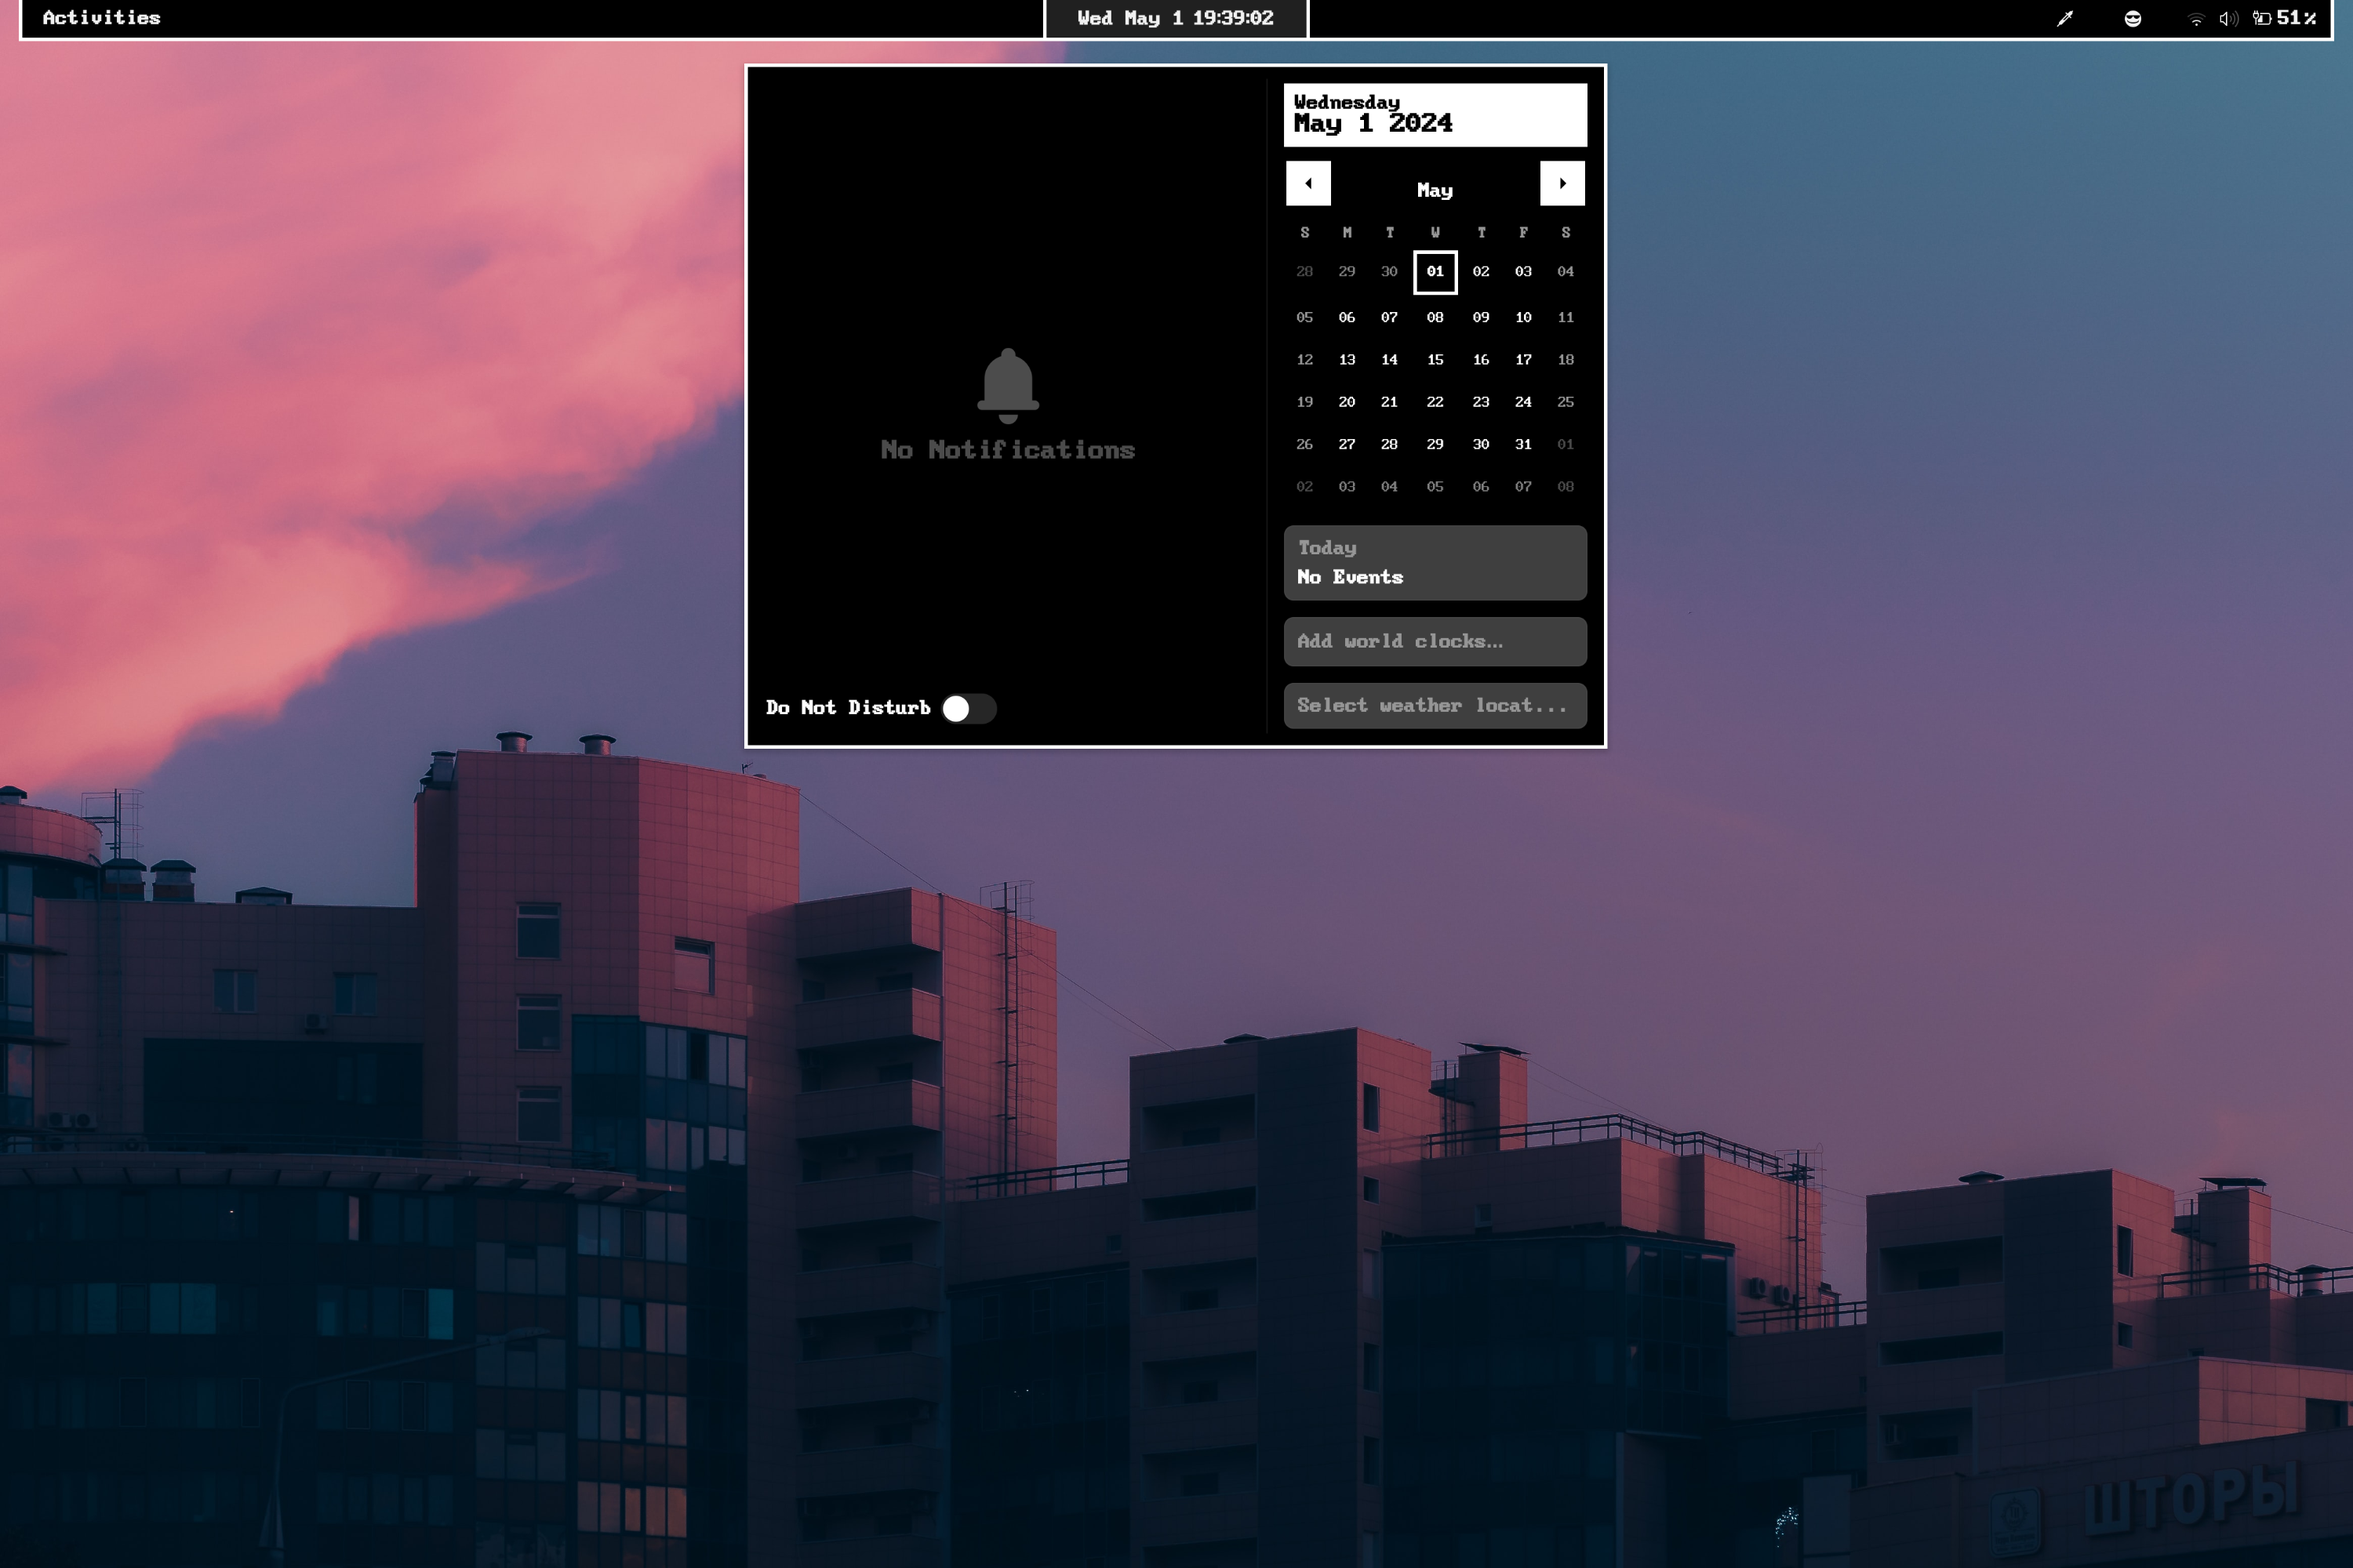
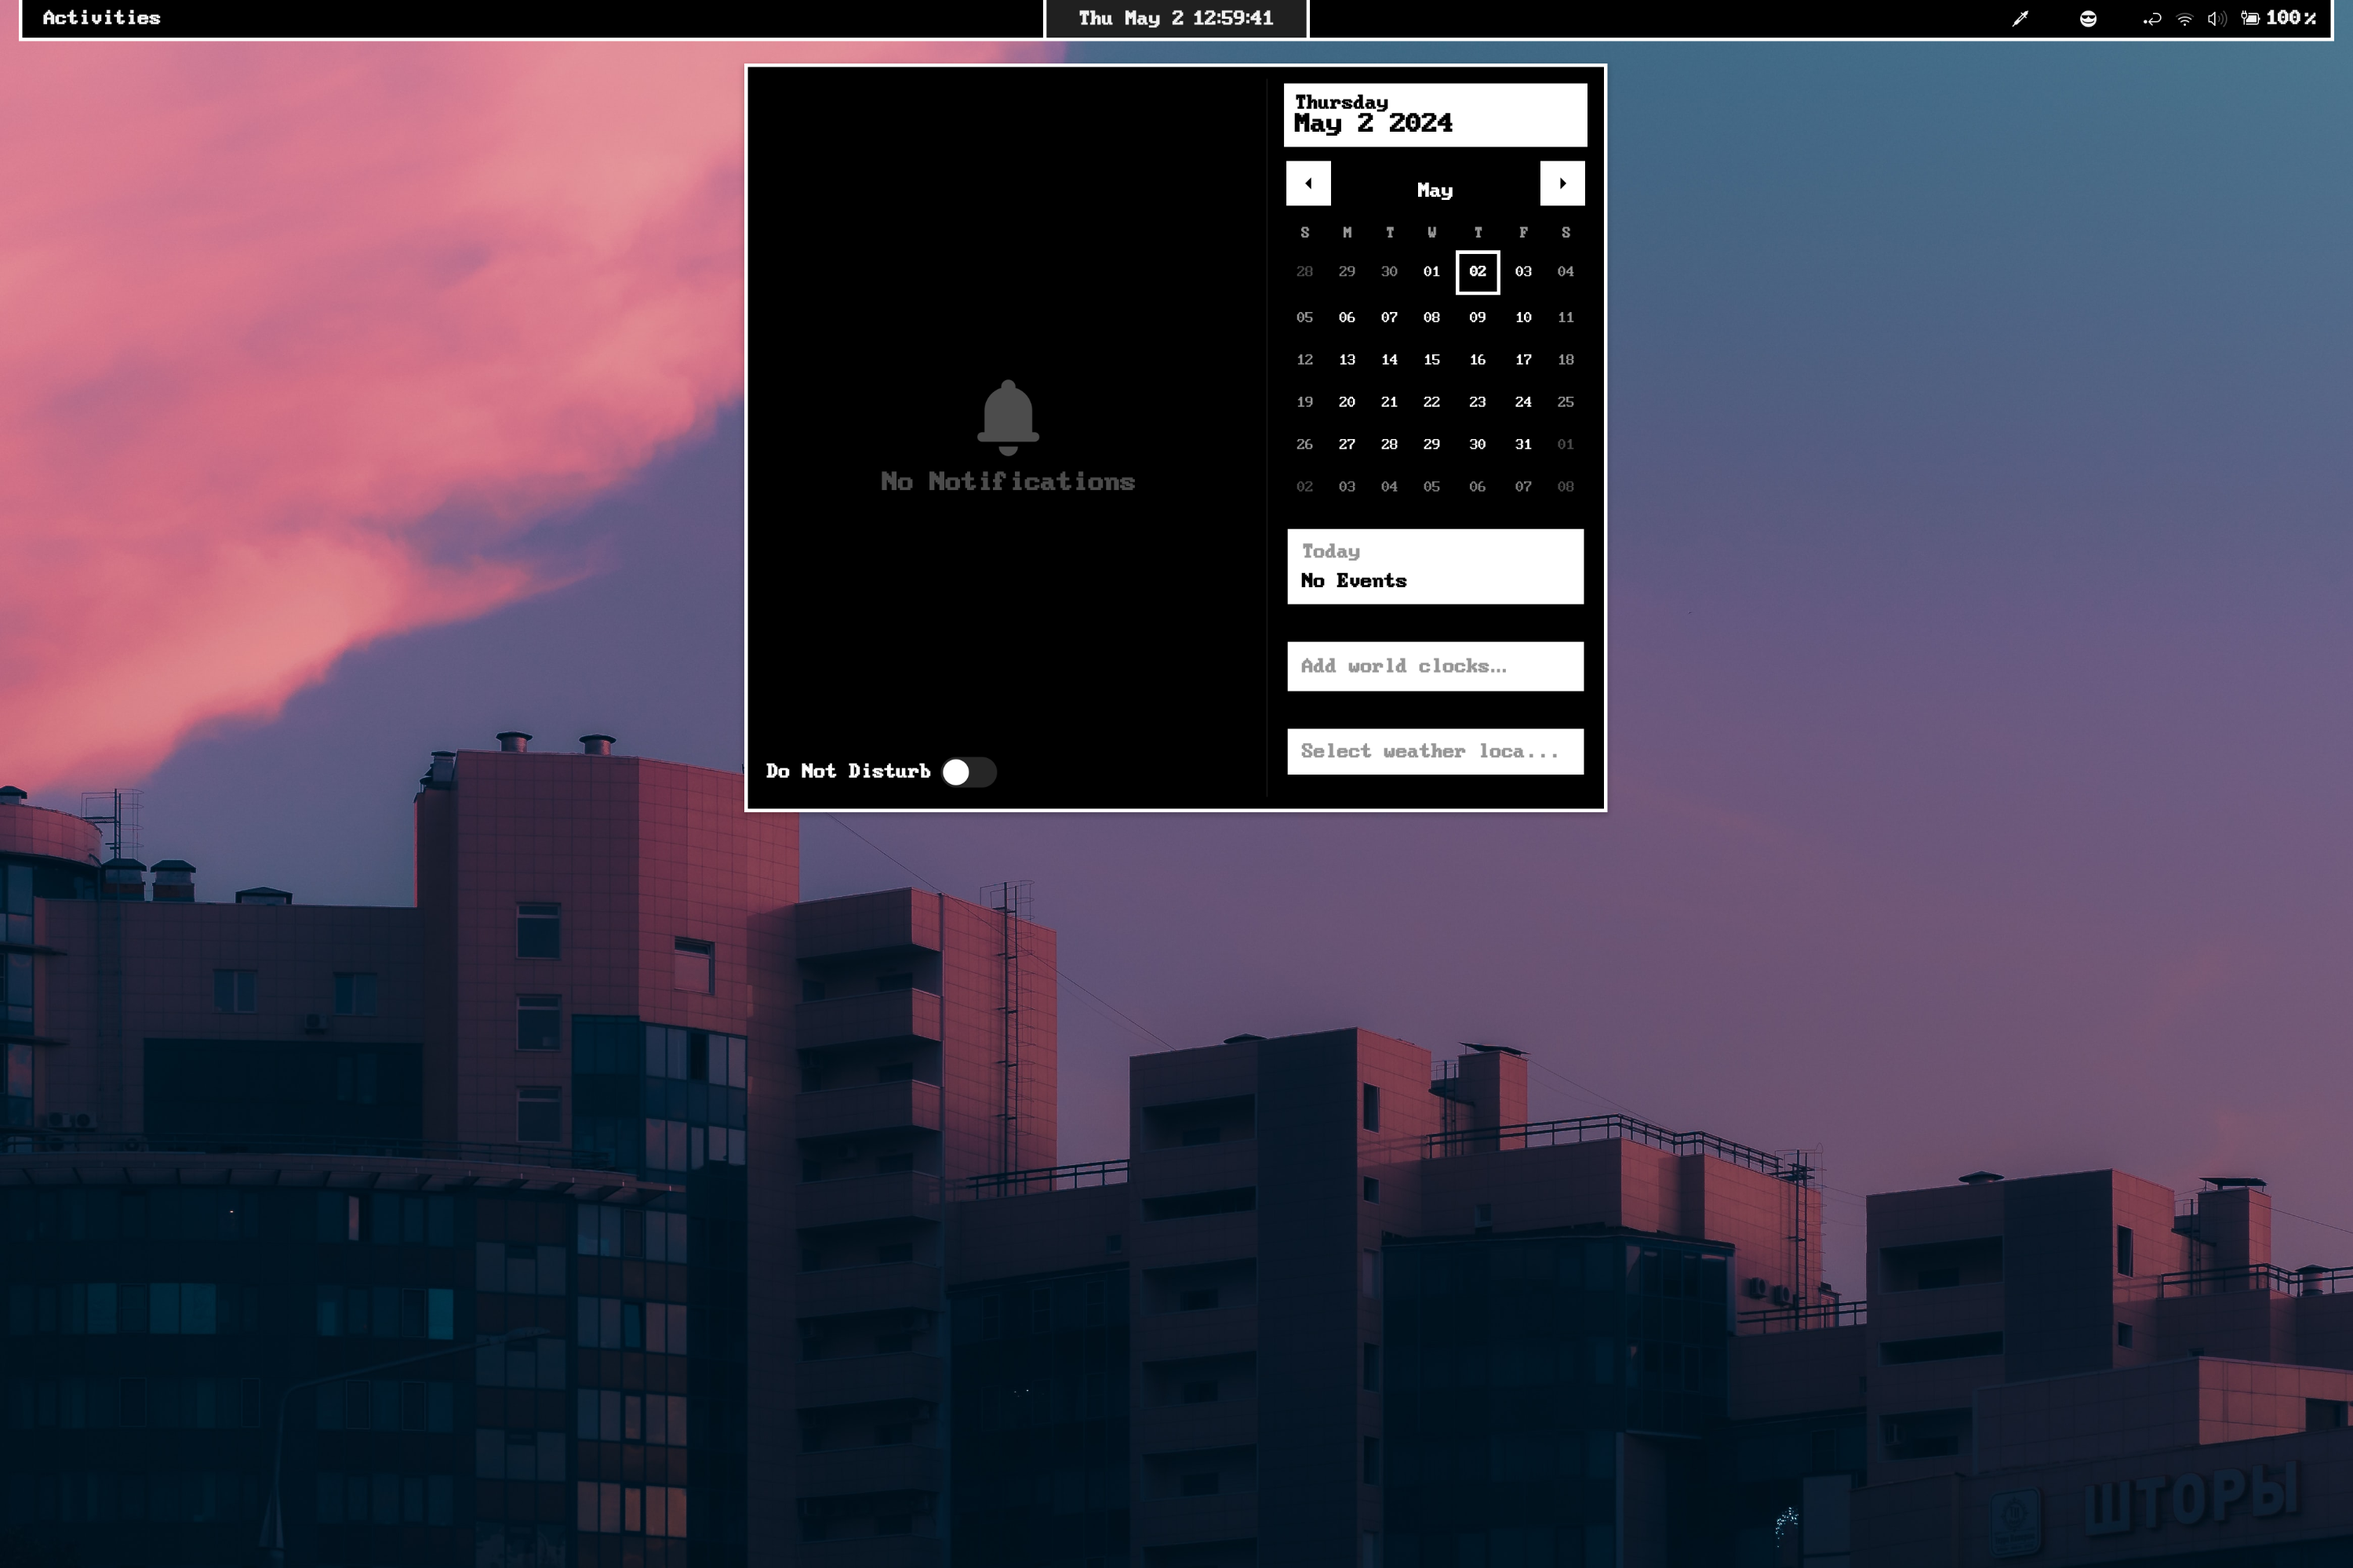
Finishing shell theme

diff --git a/gnome-shell/gnome-shell.css b/gnome-shell/gnome-shell.css
@@ -156,6 +156,9 @@ StEntry {
     background: none;
 }
 
+.weather-button,
+.events-button,
+.world-clocks-button,
 .calendar .pager-button {
     background: #ffffff;
     color: #000000;
@@ -164,6 +167,9 @@ StEntry {
     margin-bottom: 16px;
 }
 
+.weather-button:hover,
+.events-button:hover,
+.world-clocks-button:hover,
 .calendar .pager-button:hover {
     border-color: #000000;
     box-shadow: 0 0 0 3px #ffffff;
@@ -220,5 +226,20 @@ StEntry {
 }
 
 .osd-window {
+    border-radius: 0;
+}
+
+/* Notifications */
+
+.message {
+    background: #000000;
+    color: #ffffff;
+    border: 3px solid #ffffff;
+    border-radius: 0;
+}
+
+.message .message-close-button {
+    background: #ffffff;
+    color: #000000;
     border-radius: 0;
 }
